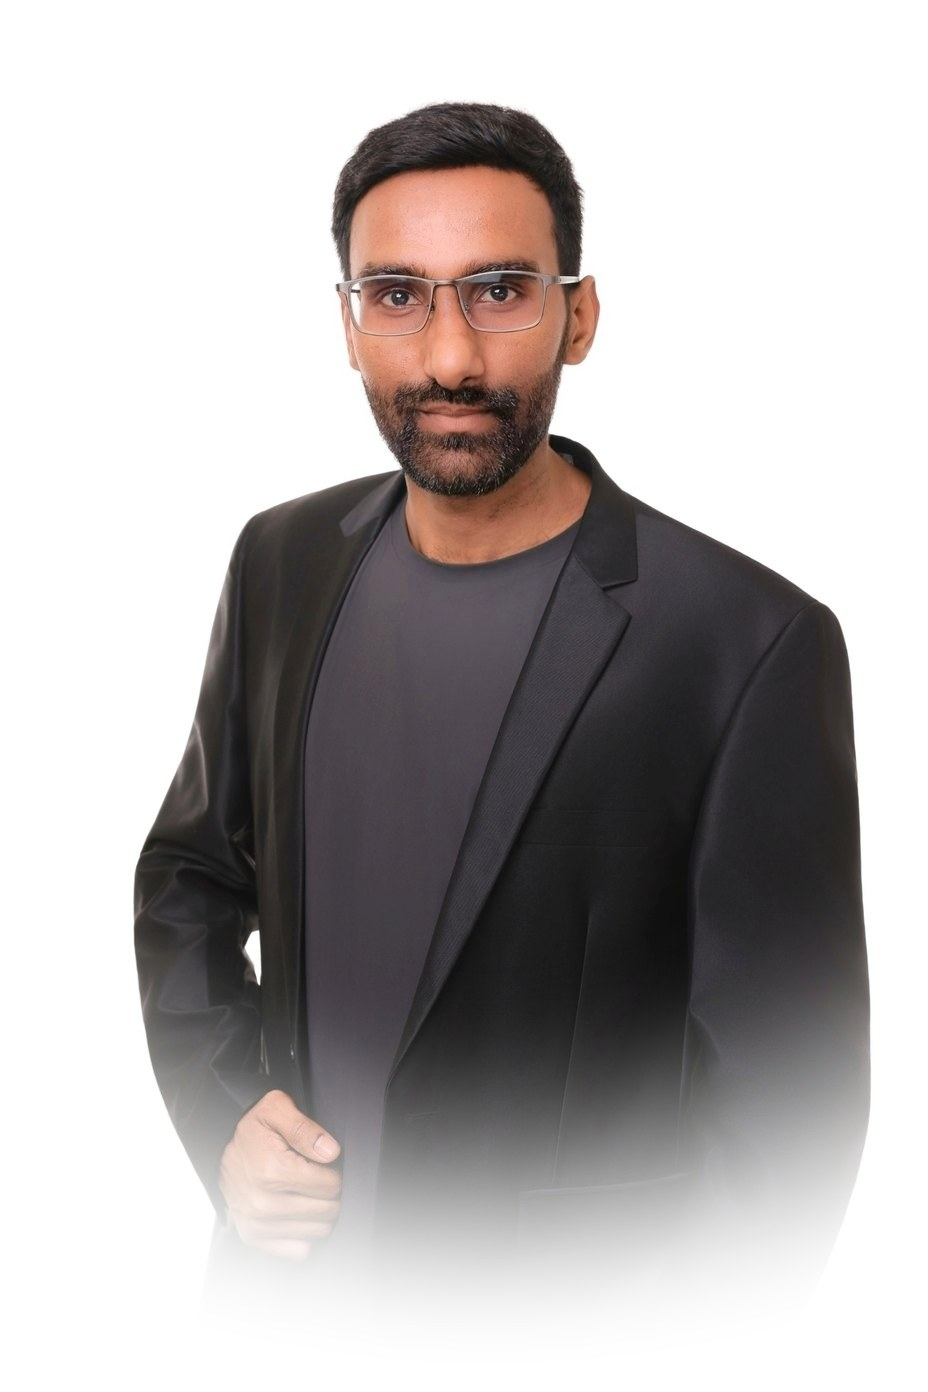
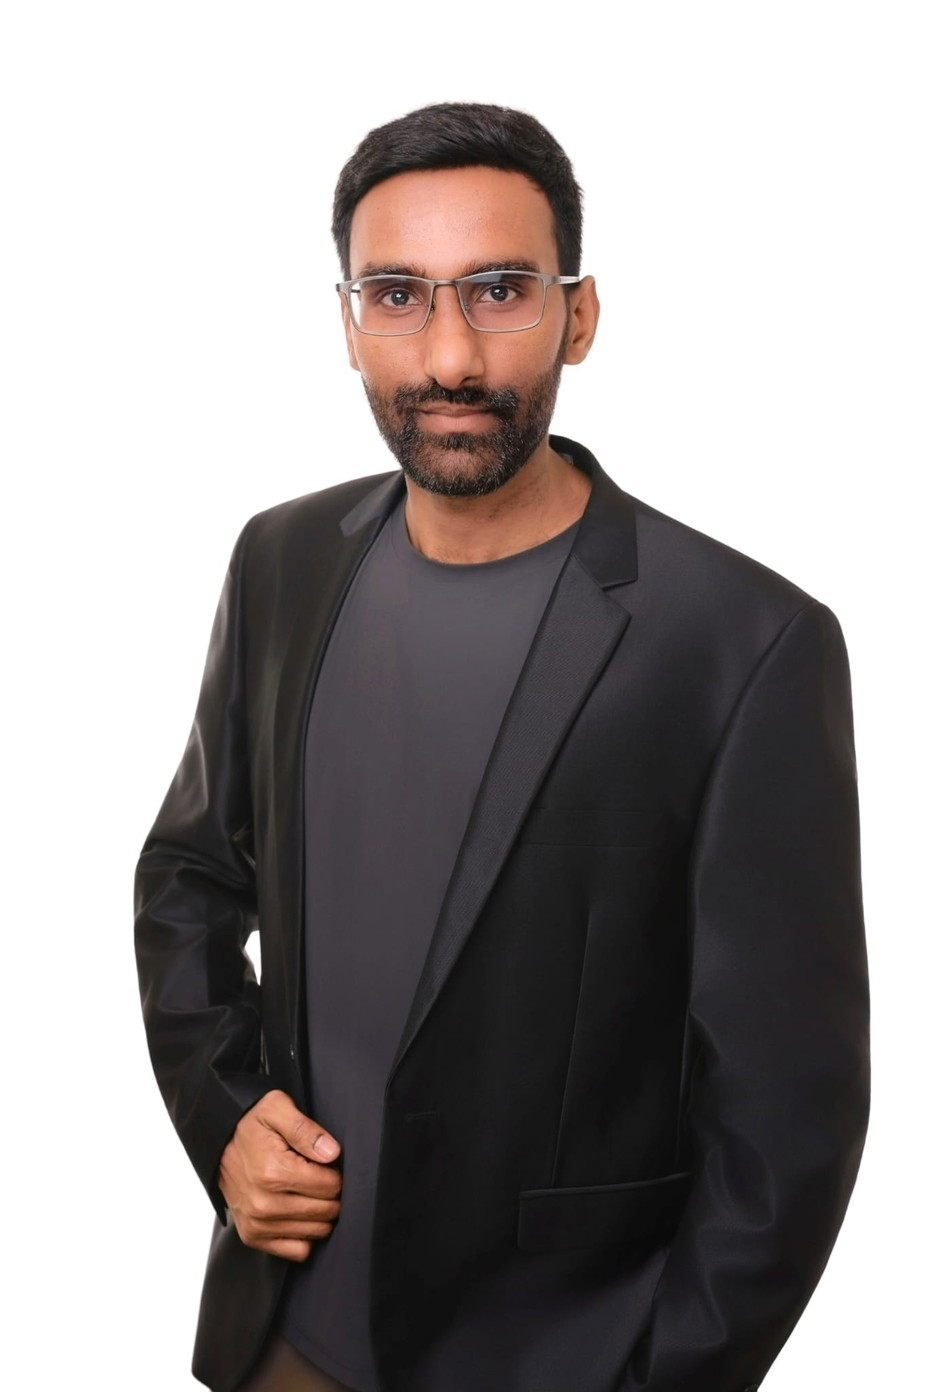
portrait_straight_edge

Changed region(s): [[0.125, 0.6487, 0.9375, 1.0]]

diff --git a/index.html b/index.html
@@ -116,8 +116,8 @@ header{position:sticky;top:0;z-index:50;background:var(--canvas);border-bottom:1
 @media (max-width:1359px){.navm{display:block;position:sticky;top:64px;z-index:49}}
 
 /* ==========================================================================
-   3. Title page: the headline and introduction, the portrait unframed and
-      faded into the page, and a contents column on wide screens
+   3. Title page: the headline and introduction, the portrait unframed with
+      a straight edge, and a contents column on wide screens
    ========================================================================== */
 .band{position:relative;background:var(--canvas);border-bottom:1px solid var(--line)}
 .hero{position:relative;display:grid;grid-template-columns:minmax(0,1fr) clamp(360px,30vw,470px) clamp(200px,15vw,270px);
@@ -139,11 +139,12 @@ h1{margin-top:0;font-family:var(--serif);font-weight:600;font-size:clamp(25px,2.
 .btn:hover{border-color:var(--ink);text-decoration:none;background:var(--panel)}
 .btn.key{background:var(--accent);border-color:var(--accent);color:var(--on-accent)}
 .btn.key:hover{background:var(--accent-hi);border-color:var(--accent-hi)}
-/* the portrait is never cropped: its fade is part of the photograph, so any crop would cut it */
+/* the portrait ends in a straight edge (option 31 of hero_designs/portrait100), so its box follows the photograph
+   exactly and the caption sits clear beneath it */
 .shot{position:relative;display:flex;flex-direction:column;width:100%;margin:0;padding:0;min-width:0;align-self:center}
-.shot img{position:relative;z-index:1;width:100%;flex:none;height:auto;aspect-ratio:2/3;max-height:620px;
+.shot img{position:relative;z-index:1;width:auto;max-width:100%;flex:none;height:auto;max-height:620px;margin:0 auto;
   object-fit:contain;object-position:50% 100%;display:block}
-.shot figcaption{position:relative;z-index:1;margin:-6px 6px 0;font:italic 400 13.5px/1.55 var(--serif);color:var(--mute);text-align:center}
+.shot figcaption{position:relative;z-index:1;margin:12px 6px 0;font:italic 400 13.5px/1.55 var(--serif);color:var(--mute);text-align:center}
 .toc{align-self:start;min-width:0;padding-top:6px}
 .toc .sub{margin-bottom:8px;padding-bottom:8px;border-bottom:1px solid var(--rule);color:var(--ink)}
 /* lift the contents label so its capitals sit at the top of the opening */
